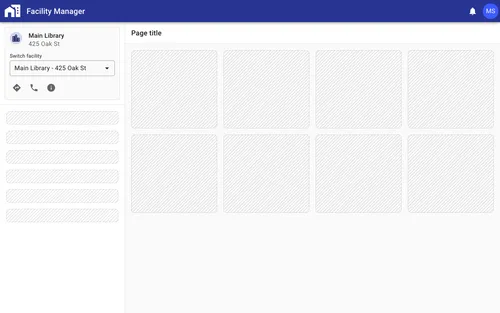
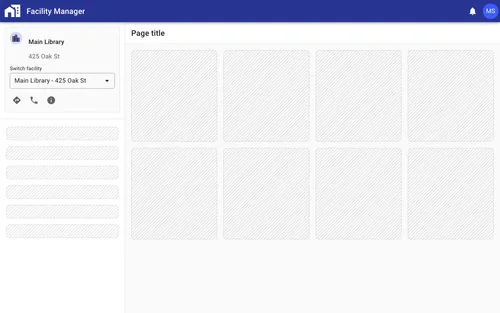
fix(blocks): use heading4 for page titles and heading3 for card titles
Page titles in the app layout body header were heading3, the same size as
card titles. They now use heading4, one step larger:

- page-title and page-title-with-back-arrow partials
- dual-scroll now uses page-title, since simple-toolbar is a card header
- inline body-header titles in four app layout blocks and
  table-with-detail-sidesheet

The scaffold-header-toolbar partial is only used as a card header, so it
moves from heading4 to heading3. Drawer titles stay heading3.

Changed region(s): [[0.0, 0.1725, 0.24, 0.345], [0.06, 0.0863, 0.15, 0.1438], [0.27, 0.0863, 0.33, 0.115]]

diff --git a/blocks/src/blocks/application-layout/basic-layout-with-tabs/basic-layout-with-tabs.html b/blocks/src/blocks/application-layout/basic-layout-with-tabs/basic-layout-with-tabs.html
@@ -41,7 +41,7 @@
     <!-- Body header with borderless toolbar and tab bar -->
     <div slot="body-header">
       <forge-toolbar no-border>
-        <h2 slot="start" class="text-heading3">Page title</h2>
+        <h2 slot="start" class="text-heading4">Page title</h2>
         <div slot="end" class="flex gap-xsmall">
           <forge-icon-button density="medium" aria-label="Notifications">
             <forge-icon name="notifications"></forge-icon>

diff --git a/blocks/src/blocks/application-layout/table-with-filters/table-with-filters.html b/blocks/src/blocks/application-layout/table-with-filters/table-with-filters.html
@@ -25,7 +25,7 @@
     <!-- Body header toolbar -->
     <div slot="body-header">
       <forge-toolbar>
-        <h2 slot="start" class="text-heading3">Orders</h2>
+        <h2 slot="start" class="text-heading4">Orders</h2>
         <div slot="end" class="flex items-center gap-small">
           <forge-button variant="filled">
             <forge-icon slot="start" name="add"></forge-icon>

diff --git a/blocks/src/blocks/tables/table-with-detail-sidesheet/table-with-detail-sidesheet.html b/blocks/src/blocks/tables/table-with-detail-sidesheet/table-with-detail-sidesheet.html
@@ -50,7 +50,7 @@
   <!-- Body header with borderless toolbar and tab bar -->
   <div slot="body-header">
     <forge-toolbar no-border>
-      <h2 slot="start" class="text-heading3">Machine Accounts</h2>
+      <h2 slot="start" class="text-heading4">Machine Accounts</h2>
     </forge-toolbar>
     <div class="bg-surface">
       <forge-tab-bar active-tab="3" clustered>

diff --git a/blocks/src/blocks/application-layout/dual-scroll/dual-scroll.html b/blocks/src/blocks/application-layout/dual-scroll/dual-scroll.html
@@ -27,7 +27,7 @@
     </forge-list>
 
     <!-- Body header toolbar -->
-    <div slot="body-header">{{> simple-toolbar title="Dual Scroll Demo"}}</div>
+    <div slot="body-header">{{> page-title title="Dual Scroll Demo"}}</div>
 
     <!-- Main scrollable content area -->
     <div slot="body" class="p-medium bg-surface-dim">

diff --git a/blocks/src/blocks/application-layout/compact-context-switcher/compact-context-switcher.html b/blocks/src/blocks/application-layout/compact-context-switcher/compact-context-switcher.html
@@ -45,7 +45,7 @@
     <!-- Body header toolbar -->
     <div slot="body-header">
       <forge-toolbar>
-        <h2 slot="start" class="text-heading3">Page title</h2>
+        <h2 slot="start" class="text-heading4">Page title</h2>
       </forge-toolbar>
     </div>
 

diff --git a/blocks/src/blocks/application-layout/detailed-context-switcher/detailed-context-switcher.html b/blocks/src/blocks/application-layout/detailed-context-switcher/detailed-context-switcher.html
@@ -77,7 +77,7 @@
     <!-- Body header toolbar -->
     <div slot="body-header">
       <forge-toolbar>
-        <h2 slot="start" class="text-heading3">Page title</h2>
+        <h2 slot="start" class="text-heading4">Page title</h2>
       </forge-toolbar>
     </div>
 
